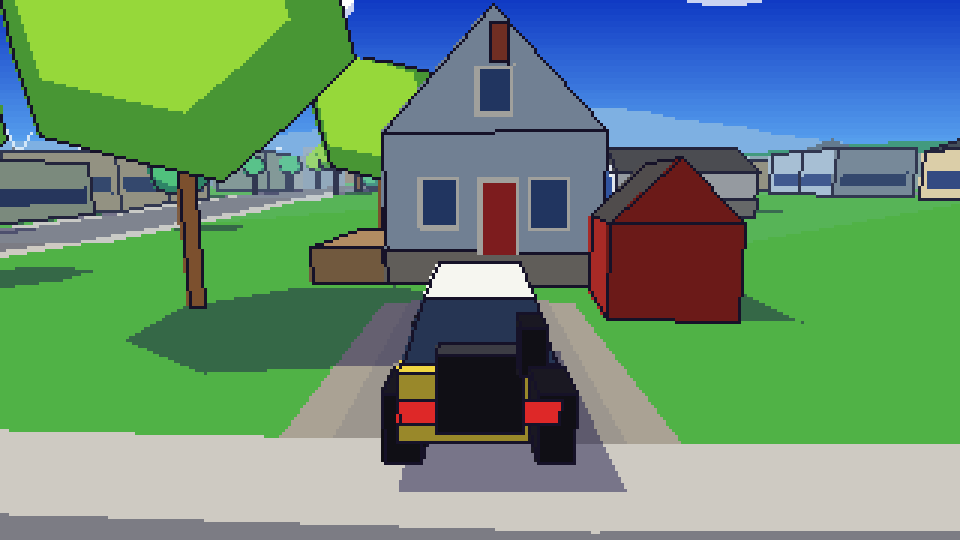
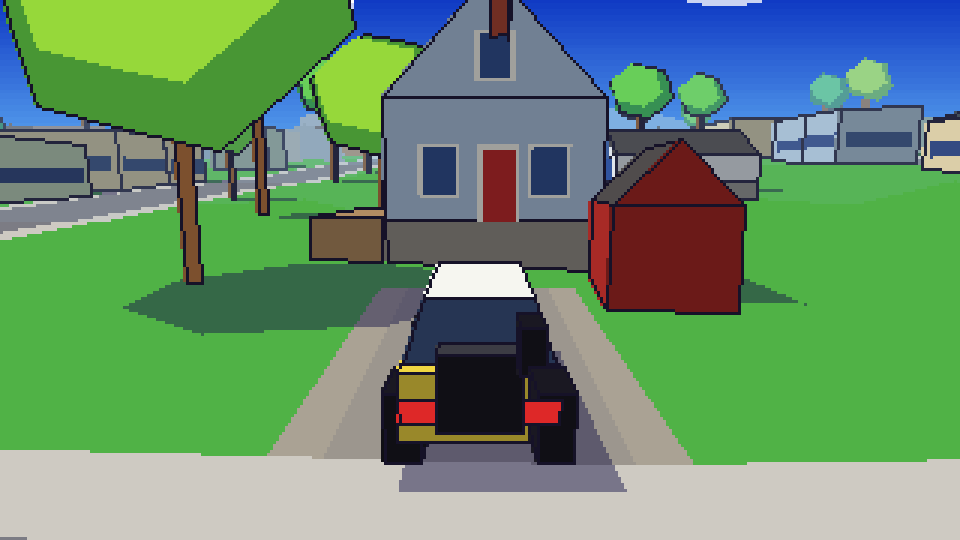
Release v0.4.0
Real trees and ground shape from the 2020 LiDAR survey, power lines, streams and land use from OpenStreetMap,
faster loading. README pictures refreshed.

diff --git a/game/__init__.py b/game/__init__.py
@@ -1,3 +1,3 @@
 """Amherst Run. The version below is the single source of truth for releases (see README: Making a release)."""
 
-__version__ = "0.3.1"
+__version__ = "0.4.0"

diff --git a/CHANGELOG.md b/CHANGELOG.md
@@ -9,19 +9,20 @@ set `__version__` in `game/__init__.py` to `X.Y.Z`, and update the link referenc
 
 ## [Unreleased]
 
+## [0.4.0] - 2026-11-21
+More of the real landscape: real trees and ground shape from the 2020 LiDAR survey, power lines, streams and land use.
+
 ### Added
 - More of the real landscape from OpenStreetMap (`tools/fetch_osm_extras.py` -> `data/osm_extras.json`): power lines
   with their wooden poles and steel towers and the wires strung between them (1,615 on the map), rivers, streams and
   ditches as water ribbons under the roads, land use as ground colour (farm fields, wetlands, meadows, grass, golf
   courses, sports pitches with their lines, cemeteries with rows of gravestones), and fences, walls and hedges.
-
 - Real ground shape from the 2020 LiDAR survey: heights every 12.5 m instead of 25 m from the bare-earth model
   (`tools/fetch_lidar_ground.py`, which reads the survey's 8 m overview: about 20 tiles for the whole map). Road cuts,
   the rail embankment, river banks and the dam's drop are real. The land is drawn in 25 m cells with the fine ones
   within 75 m (about 20 more polygons a frame). Under overpasses the older smooth grid is blended in, because the
   survey includes the bridge embankments while the game builds its own ramps and decks. `tools/cog.py` can now read a
   GeoTIFF's overview levels.
-
 - Real trees from the LiDAR survey: about 460,000 tree tops (`tools/fetch_lidar_trees.py` -> `data/lidar_trees.json`,
   1.7 MB) replace the random woods and the random street trees wherever the survey covers the map. Each stands where a
   real tree does, at its real height (capped at 24 m), off the roads and 3 m clear of buildings; they are planted area
@@ -268,7 +269,8 @@ First public release.
 - The sandstone-corner bank entry in the landmark file matched every bank; it now matches by name only.
 - Buildings no longer draw through one another or through cars: each wall piece is depth-sorted on its own.
 
-[Unreleased]: https://github.com/jeremylegere-wq/amherst-run/compare/v0.3.1...HEAD
+[Unreleased]: https://github.com/jeremylegere-wq/amherst-run/compare/v0.4.0...HEAD
+[0.4.0]: https://github.com/jeremylegere-wq/amherst-run/compare/v0.3.1...v0.4.0
 [0.3.1]: https://github.com/jeremylegere-wq/amherst-run/compare/v0.2.1...v0.3.1
 [0.3.0]: https://github.com/jeremylegere-wq/amherst-run/compare/v0.2.1...v0.3.0
 [0.2.1]: https://github.com/jeremylegere-wq/amherst-run/compare/v0.2.0...v0.2.1
